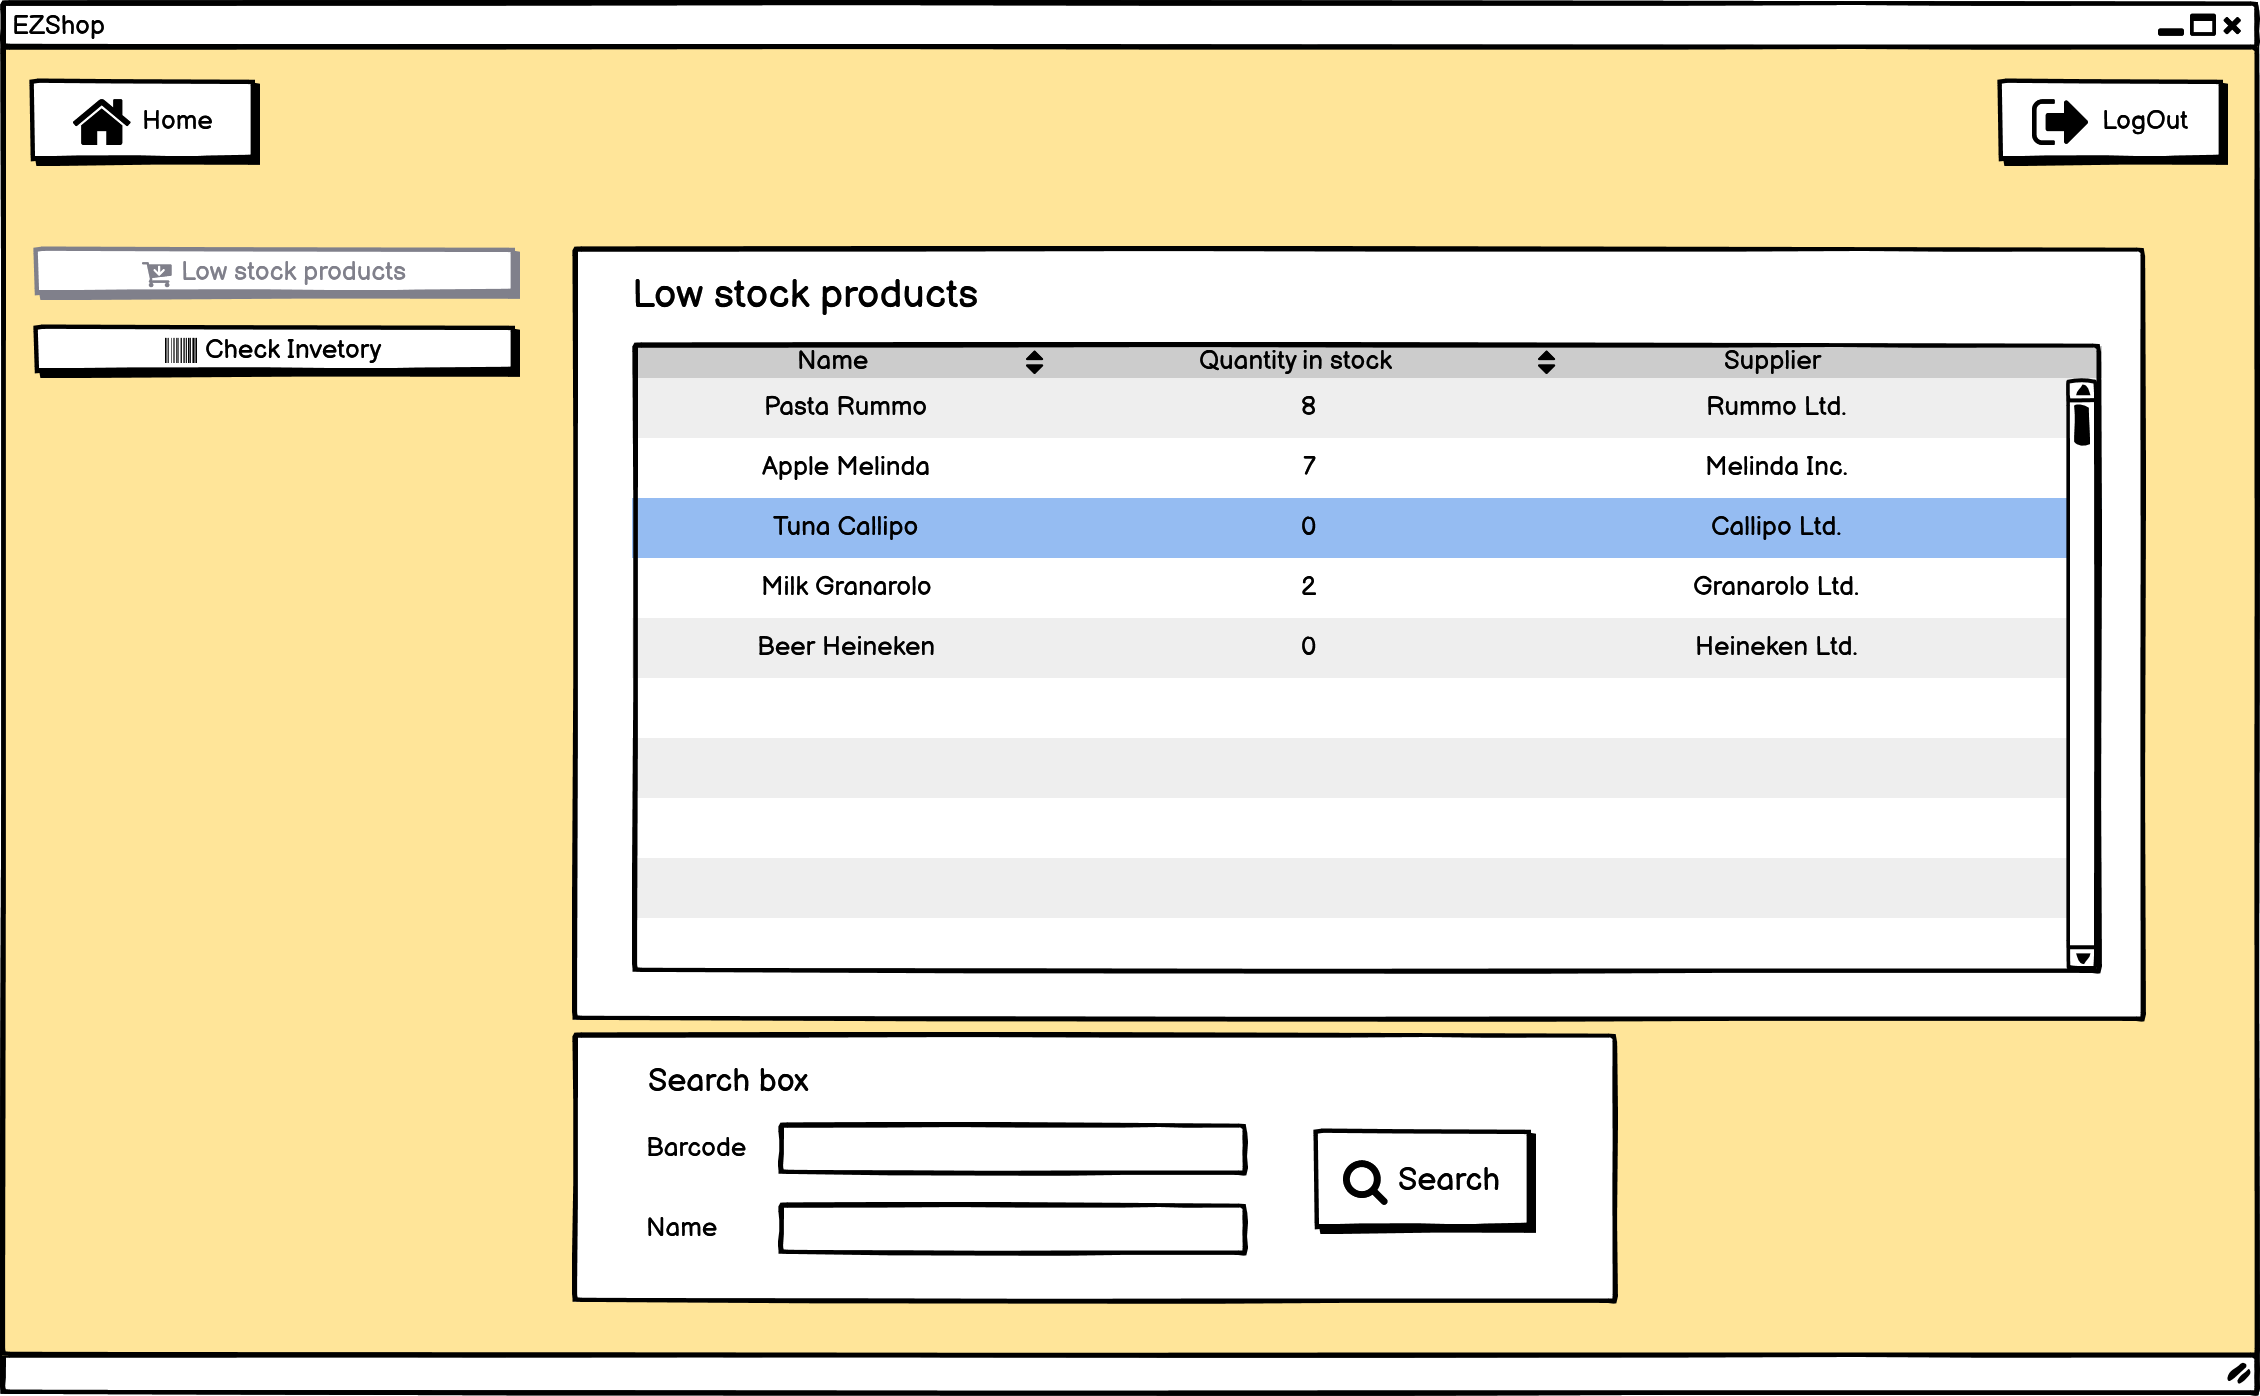
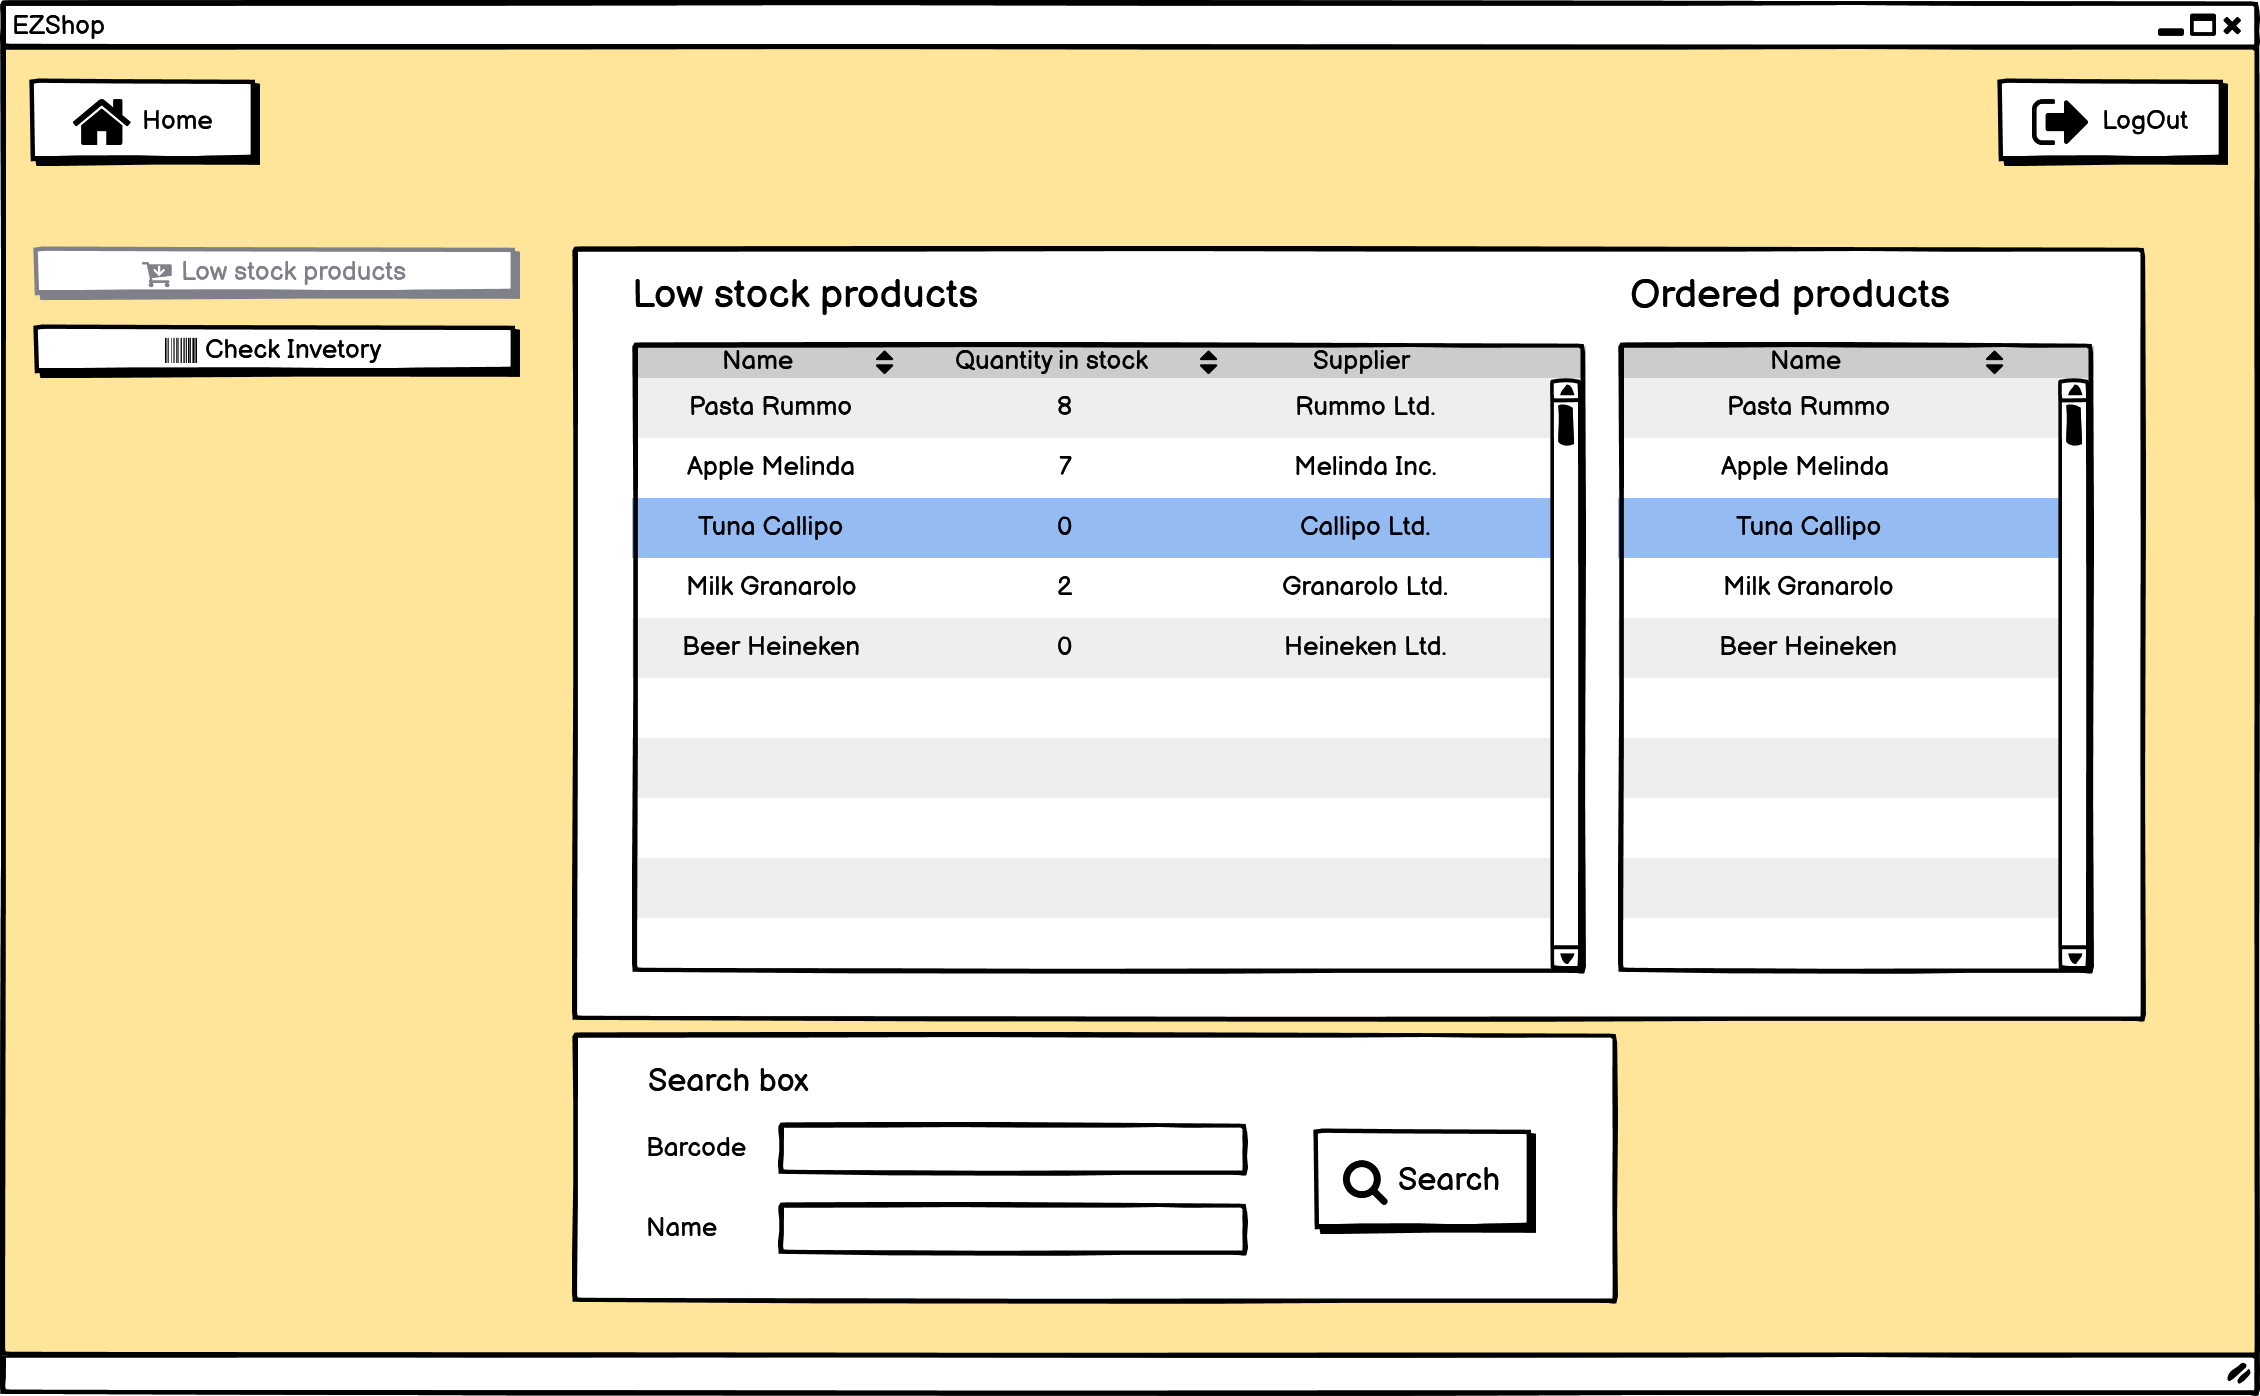
Addded fidelity carrd as stakeholder, added POS api, NFR5, added dbmss in the deployment diagram

diff --git a/Deliverables/RequirementsDocument.md b/Deliverables/RequirementsDocument.md
@@ -61,6 +61,7 @@ EZShop is a software application to:
 
 
 actor Printer 
+actor :Fidelity Card: as FidelityCard
 actor Owner
 actor Product
 actor Subscriber
@@ -81,7 +82,7 @@ EZShop -- Bank
 Subscriber -- EZShop
 EZShop -- Printer
 EZShop -- Product
-
+FidelityCard -- EZShop
 
 @enduml
 ```
@@ -90,7 +91,7 @@ EZShop -- Product
 
 ## Interfaces
 
-Screen, keyboard and mouse on PC: A PC inside the shop that all subscriber can use.
+Screen, keyboard and mouse on PC: a PC inside the shop that all subscriber can use.
 
 Fidelity card: A card that each subscriber gets when they register.
 
@@ -102,10 +103,11 @@ APIs: Software to connect external systems to EZ Shop logically.
 | Employee       | Screen keyboard mouse on PC | GUI |
 | Subscriber       | Screen keyboard mouse on PC | GUI |
 | Supplier       | Internet connection | Email |
-| POS system       | Internet connection | Creditcard API |
+| POS system       | Internet connection | REST API v67 as described in https://docs.adyen.com/api-explorer/#/Payment/v64/overview |
 | Product       | Laser beam | Barcode |
 | Bank | Internet connection | Bank website |
 | Printer | Usb cable | Drivers |
+| Fidelity Card | Laser beam | Barcode |
 
 
 # Stories and personas
@@ -191,7 +193,7 @@ APIs: Software to connect external systems to EZ Shop logically.
 |  NFR2     | Efficiency | Operations should take less than 10 seconds | All|
 |  NFR3     | Portability | EZ Shop should be available on several OS (Windows, MacOS and Linux)| All|
 | NFR4 | Privacy | Database data are encrypted| Fr3, Fr4| 
-|NFR5 |Localisation | Decimal numbers use . (dot) as decimal separator|
+| NFR5 | Localisation | Decimal numbers use . (dot) as decimal separator|
 
 # Use case diagram and use cases
 
@@ -200,14 +202,14 @@ APIs: Software to connect external systems to EZ Shop logically.
 ```plantuml
 @startuml
 
-
+rectangle "EZShop" as EZShop{
 "Warning on low stock, buy product" as (warning)
 "Handle transaction" as (handleTransaction)
 
 "Check inventory" as (checkInventory)
 "Manage account" as (manageAccount)
 "Owner tasks" as (ownerTasks)
-
+}
 
 "Owner" as owner
 "Employee" as employee
@@ -215,6 +217,7 @@ APIs: Software to connect external systems to EZ Shop logically.
 "Supplier" as supplier
 "Product" as product
 "Barcode scanner" as bcScanner
+"Fideliy Card" as fidelityCard
 owner-->(checkInventory)
 employee -->(checkInventory)
 owner --> (ownerTasks)
@@ -232,6 +235,8 @@ employee --|>subscriber
 subscriber -->(manageAccount)
 employee-->(handleTransaction)
 (handleTransaction) --> (warning)
+
+
 @enduml
 ```
 
@@ -249,18 +254,18 @@ employee-->(handleTransaction)
 "Pay salaries" as (paySalaries)
 "Add fidelity points" as (addPoints)
 "Handle transaction" as (handleTransaction)
-(ownerTasks) --> (addProduct):include
-(acoounting)-->(listSale):include
-(acoounting)-->(listExpenses):include
-(acoounting)-->(paySalaries):include
-(ownerTasks)-->(notSold):include
-(ownerTasks)-->(accounting):include
-(ownerTasks)-->(manageRights):include
-(ownerTasks)-->(editProduct):include
+(ownerTasks) ..> (addProduct):include
+(acoounting)..>(listSale):include
+(acoounting)..>(listExpenses):include
+(acoounting)..>(paySalaries):include
+(ownerTasks)..>(notSold):include
+(ownerTasks)..>(accounting):include
+(ownerTasks)..>(manageRights):include
+(ownerTasks)..>(editProduct):include
 (handleTransaction) --> (addPoints)
 @enduml
-
 ```
+
 ```plantuml
 @startuml
 "Manage account" as (manageAccount)
@@ -271,26 +276,25 @@ employee-->(handleTransaction)
 "Create cooupon" as (coupon)
 "Forgot password" as (forgotPassword)
 "Login" as (login)
-(manageAccount)-->(checkPoints):include
-(manageAccount)-->(registration):include
-(manageAccount)-->(request):include
-(manageAccount)-->(edit):include
-(manageAccount)-->(coupon):include
-(manageAccount)-->(forgotPassword):include
-(manageAccount)-->(login):include
+(manageAccount)..>(checkPoints):include
+(manageAccount)..>(registration):include
+(manageAccount)..>(request):include
+(manageAccount)..>(edit):include
+(manageAccount)..>(coupon):include
+(manageAccount)..>(forgotPassword):include
+(manageAccount)..>(login):include
 @enduml
-
 ```
+
 ## Use cases
 ### Use case 1, UC1 Manage sale transaction
-| Actors Involved        | Employee, Owner, Subscriber, Product |
+| Actors Involved        | Employee, Owner, Subscriber, Product, Fidelity Card |
 | ------------- |:-------------:| 
 |  Precondition     | Employee E or Owner O are logged in and Product P1, ... , Pn are in the inventory|  
 |  Post condition     | Transation T is registered and P1.amount -= T.P1.amount, ... , Pn.amount -= T.Pn.amount |
 |  Nominal Scenario     | Read the barcode(s) through manually, scanner or auto-machine. Start sale transaction with scanning each barcode of product(s). End sale transaction and handle product(s) to the customer |
-|  Variants     | if there is a discount on a product -> apply discount |
-|      | if a subscriber requests a discount and also have a coupon -> apply discount |
-|      | if the customer is a subscriber -> add fidelity points |
+|  Variants | if a subscriber requests a discount and also have a coupon -> apply discount  
+|           | if the customer is a subscriber -> add fidelity points |
  
 ##### Scenario 1.1
 | Scenario | Subscriber not registered |
@@ -352,7 +356,7 @@ employee-->(handleTransaction)
 |  3     | The owner decides to buy the product(s) |
 |  4	 | The owner select the amount of the product(s) |
 |  4 	 | The product(s) is/are added to the list of expenses |
-|  5     | An order is issued |
+|  5     | An order is issued via e-mail |
 |  6     | The product(s) is/are delivered |
 |  7     | The amount of the product(s) is increased |
 
@@ -485,7 +489,7 @@ employee-->(handleTransaction)
 
 
 ### Use case 8, UC8 Registration, Request fidelity card
-| Actors Involved        | Subscriber |
+| Actors Involved        | Subscriber, Fidelity Card |
 | ------------- |:-------------:| 
 |  Precondition     | - |  
 |  Post condition     | Subscriber S is created , FidelityCard F is created and S.FidelityCard = F |
@@ -517,7 +521,7 @@ employee-->(handleTransaction)
  
  
 ### Use case 9, UC9 Create a coupon
-| Actors Involved        | Subscriber |
+| Actors Involved        | Subscriber, Fidelity Card |
 | ------------- |:-------------:| 
 |  Precondition     | Subscriber S is logged in and S.FidelityCard.points >= 10|  
 |  Post condition     | A Coupon is added to the Subscriber S.FidelityCard and S.FidelityCard.points -= 10 |
@@ -553,7 +557,7 @@ employee-->(handleTransaction)
 
  
 ### Use case 11, UC11 Add Fidelity point
-| Actors Involved        | Subscriber, Employee, Owner |
+| Actors Involved        | Subscriber, Employee, Owner, Fidelity Card |
 | ------------- |:-------------:| 
 |  Precondition     | Employee E is logged in or Owner O is logged in|  
 |  Post condition     | Subscriber S.FidelityCard.points += newPoints |
@@ -809,8 +813,7 @@ Lost
 }
 class "Local server" as localServer{
 }
-class "General database" as generalDB{
-}
+
 
 class "Product type" as PT{
 Name
@@ -854,7 +857,8 @@ class "Barcode Scanner" as barcodeReader{
 
 }
 class "Supplier" as supplier{
-
+Name
+Email
 }
 
 
@@ -874,11 +878,7 @@ localServer - EZShop
 
 EZShop -- "*"PT
 PT -- "*"product
-localServer -- generalDB
-generalDB-- product
-generalDB -- transaction
-generalDB -- subscriber
-generalDB -- fidelityCard
+
 EZShop -- "*"transaction
 customer <|- subscriber
 transaction <|-- sale
@@ -929,22 +929,21 @@ cashRegister -- barcodeScanner
 
 # Deployment Diagram
 
+Client server model. The terminals runs the GUI which allows the comunicatin with the server. 
+The EZShop application runs on a server.
 ```plantuml
 @startuml
 
 node "Local server" as localServer{
 artifact "EZShop application" as EZShop{
-artifact "General database" as generalDB
-
-artifact "Accounting" as accounting
 }
+node "Oracle DBMS" as generalDB
 }
 node "Local terminal" as localTerminal{
 artifact "GUI" as gui
 }
 
-localServer -- "*" localTerminal :internet
-
+localServer -- "*" localTerminal :HTTP/internet
 
 @enduml
 

diff --git a/Deliverables/GUIPrototype.md b/Deliverables/GUIPrototype.md
@@ -109,9 +109,9 @@ At the end and after Searching by Date or Transaction ID, if the Owner or Employ
 Owner version.  
 
 The first version of the view is used to show the products that are low in stock to the **owner**. Then the **owner** can decide whether buy or not these products. In the table there are shown: the name, the quantity in stock, the supplier and the buying cost of each product that is low in stock.
-1. The **system** shows in the table all products that are low in stock.
-2. The **owner** can search the products either by barcode or by name, with the searchbox at the bottom. The search is performed when he/she presses the search button.
-3. The **system** shows in the table the products that matches with the search criteria, if any.
+1. The **system** shows into the table all products that are low in stock.
+2. The **owner** can search  products among low stock products and the ordered ones at the same time. The search can be done either by barcode or by name, with the searchbox at the bottom. The search is performed when he/she presses the search button.
+3. The **system** shows into the tables the products that matches with the search criteria, if any.
 4. The **owner**, by checking the checkbox relative to the product that he wants to buy, can select the products to which is interested to.
 5. The **owner** can choose the quantity for each product, that is checked, by clicking on the realtive number stepper.
 6. The **owner** can buy the products by clicking on the order button.
